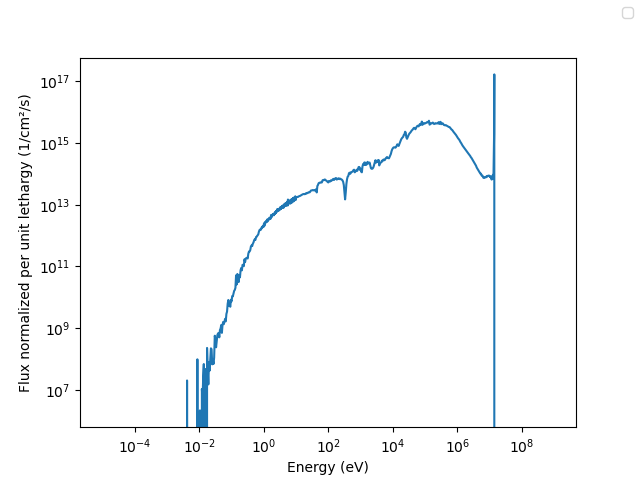
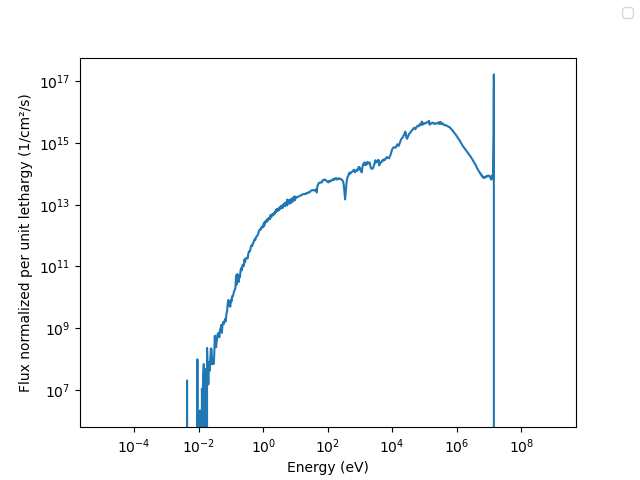
Added hw2 stuff, almost forgot

diff --git a/hw2.tex b/hw2.tex
@@ -16,8 +16,7 @@
 \usepackage{mhchem}
 \setcounter{tocdepth}{4}
 \setcounter{secnumdepth}{4}
-\usepackage{xcolor}
-\usepackage{amsmath,mathtools}
+\usepackage{xcolor,amsmath,mathtools}
 \usepackage{hyperref} % Link to desmos page
 
 \setacronymstyle{long-short}
@@ -29,21 +28,28 @@
 \newcommand{\eeq}{\end{aligned}\end{equation}}
 \newcommand{\beqs}{\begin{equation*}\begin{aligned}}
 \newcommand{\eeqs}{\end{aligned}\end{equation*}}
+\newcommand{\abrack}[1]{\langle#1\rangle}
 \usepackage{tcolorbox}
 \setlength{\parskip}{5pt}
 
 \begin{document}
-\noindent {\bf \Large NPRE 455: Homework 2}\\
+\noindent {\bf \Large NPRE 455: Homework 2} Owen Strong, ostrong2, 661893247\\
 
 \noindent 1. ({\bf factual concept recall}) Provide a {\it short} (1-2 sentences) answer to each of the following questions.
 
 \begin{enumerate}
 \item[(a)] ({\bf 1 point}) What is ``breeding?'' Give an example using \ce{^{232}Th}.
+\item[] Breeding is using excess neutrons to convert fertile nuclei to fissile nuclei. For example, in a thorium breeder reactor, \ce{^{232}Th} nuclei are struck by neutrons, and after absorbing a neutron \ce{^{233}Th} will decay to \ce{^{233}U}, which itself is fissile. 
 \item[(b)] ({\bf 2 points}) What is the difference between a ``multiplying'' system and a ``non-multiplying'' system? Give a real-life example of each.
+\item[] In a multiplying system, such as a fission reactor (Clinton Generating Station), neutrons produced by the nuclear reaction are also what trigger further reaction events, leading to a chain reaction. Conversely, in a non-multiplying system like a fusion reactor (JET), the product neutrons are not themselves one of the inputs to new reaction events, and these may often be treated as ``fixed-source'' neutronics problems.
 \item[(c)] ({\bf 1 point}) What is the name of the evaluated data library developed in the United States?
+\item[] The ENDF data library is maintained at Brookhaven National Laboratory.
 \item[(d)] ({\bf 4 points}) What do the four symbols in the four-factor formula represent? Define each one and give a short physical interpretation.
+\item[] In the four factor formula $k=\epsilon pf\eta$, the fast fission factor $\epsilon=\frac{\abrack{\nu\Sigma_f\phi}}{\abrack{\nu\Sigma_f\phi}^{th}}$ represents an added bonus for fast fission (the ratio of fast+thermal fission to just thermal fission), the resonance escape probability $p=frac{\abrack{\Sigma_a\phi}^{th}}{\abrack{\Sigma_a\phi}}$ represents the ratio of neutrons which are slowed down from fast to thermal energies without being absorbed to all neutrons produced, the thermal utilization factor $f=frac{\abrack{\Sigma_a\phi}^{th}_{fuel}}{\abrack{\Sigma_a\phi}^{th}}$ represents the fraction of thermal neutrons which are then absorbed by the fuel as opposed to other materials, and the production-absorption ratio $\nu=\frac{\abrack{\nu\Sigma_f\phi}^{th}_{fuel}}{\abrack{\Sigma_a\phi}^{th}_{fuel}}$ represents the average number of neutrons produced by fission reactions for every thermal neutron that is absorbed by the fuel.
 \item[(e)] ({\bf 2 points}) What is meant by ``spatial self-shielding?''
+\item[] Spatial self-shielding refers to the difference in behavior because neutrons may interact differently with spatially different components of the reactor. Neutrons might, in region A, undergo several different types of reactions and only \emph{then} enter region B, which would be different than if the components of A and B were homogenously mixed.
 \item[(f)] ({\bf 2 points}) Why can it be a poor design choice for a reactor to be over-moderated?
+\item[] If a reactor is overmoderated, then removing moderator increases the reaction rate of the reactor. For a water-moderated reactor, where increased reactor power might just boil away and remove even \emph{more} water in a positive feedback loop, this is what we in the business call, uh, \emph{suboptimal}.
 \end{enumerate}
 
 \clearpage
@@ -58,13 +64,123 @@ where $\phi_0=13.1\times10^{13}$ [1/cm$^2$/s], $R=50$ [cm], $\Sigma_a=0.108$ [1/
 
 \begin{enumerate}
 \item[(a)] ({\bf 3 points}) What is the maximum flux in the sphere?
+\begin{itemize}
+    \item To find the location with maximum flux, allow us to first find the spatial derivative of $\phi(r)$ using the quotient rule:
+    \begin{align*}
+        \phi(r)&=\frac{\phi_0R\sin{\left(\frac{\pi r}{R}\right)}}{r} \\
+        \phi'(r)&=\left[\frac{\phi_0R\sin{\left(\frac{\pi r}{R}\right)}}{r}\right]' \\
+        \color{gray}\left[\frac{f(x)}{g(x)}\right]'&\color{gray}=\frac{f'(x)g(x) - f(x)g'(x)}{(g(x))^2}\color{black} \\
+        \phi'(r)&=\phi_0R\left[\frac{\sin{\left(\frac{\pi r}{R}\right)}}{r}\right]' \\
+        &=\phi_0R\left[\frac{\frac{\pi}{R}\cos{\left(\frac{\pi r}{R}\right)r - \sin{\left(\frac{\pi r}{R}\right)}}}{r^2}\right] \\
+        &=\phi_0R\left[\frac{\pi\cos{\left(\frac{\pi r}{R}\right)}}{Rr} - \frac{\sin{\left(\frac{\pi r}{R}\right)}}{r^2}\right] \\
+        \phi'(r)&=\phi_0\frac{R}{r}\left[\frac{\pi\cos{\left(\frac{\pi r}{R}\right)}}{R} - \frac{\sin{\left(\frac{\pi r}{R}\right)}}{r}\right] \\
+    \end{align*}
+    then find where this derivative is equal to 0:
+    \begin{align*}
+        \phi'(r)=0&=\phi_0\frac{R}{r}\left[\frac{\pi\cos{\left(\frac{\pi r}{R}\right)}}{R} - \frac{\sin{\left(\frac{\pi r}{R}\right)}}{r}\right] \\
+        0 &= \frac{\pi\cos{\left(\frac{\pi r}{R}\right)}}{R} - \frac{\sin{\left(\frac{\pi r}{R}\right)}}{r}\color{gray}\ (\mathrm{finite\ }r) \\
+        \frac{\pi\cos{\left(\frac{\pi r}{R}\right)}}{R} &= \frac{\sin{\left(\frac{\pi r}{R}\right)}}{r} \\
+        \pi\cos{\left(\frac{\pi r}{R}\right)}r &= \sin{\left(\frac{\pi r}{R}\right)}R\\
+    \end{align*}
+    since $\sin(x)=0$ and $\cos(x)=0$ do not coincide,
+    \begin{align*}
+        \pi\cos{\left(\frac{\pi 0}{R}\right)}0 &= \sin{\left(\frac{\pi 0}{R}\right)}R\\
+        0&=0 \\
+        &\rightarrow r=0
+    \end{align*}
+    Then, by taking the limit as $\phi(r)$ approaches 0, we find the maximum flux:
+    \begin{align*}
+        \phi(0)&=\phi_0R\frac{\sin{\left(\frac{\pi r}{R}\right)}}{r} |_{r=0}\\
+        \lim_{r\rightarrow0}\phi(r)&=\phi_0R\frac{[\sin{\left(\frac{\pi r}{R}\right)}]'}{[r]'} |_{r=0}\\
+        &=\phi_0R\frac{\frac{\pi}{R}\cos{\left(\frac{\pi r}{R}\right)}}{1} |_{r=0}\\
+        &=\phi_0R\frac{\pi}{R}\\
+        &=\phi_0\pi\\
+        \color{gray}\phi_0&\color{gray}=13.1\times10^{13}\text{[1/cm$^2$/s]} \\
+        &=\pi\times13.1\times10^{13}\text{[1/cm$^2$/s]} \\
+        &=4.12\times10^{14}\text{[1/cm$^2$/s]} \\   
+    \end{align*}
+\end{itemize}
 \item[(b)] ({\bf 3 points}) Plot $\phi(r)$ as a function of $r$. This should be a computer-generated plot, not a hand sketch. Include labels for your axes with units.
+\begin{figure}[htb!]
+\centering
+\includegraphics[width=0.8\linewidth]{figures/hw2_p2flux.png}
+\caption{The flux spectrum $\phi(r)$.}
+\label{fig:p2flux}
+\end{figure}
+\begin{itemize}
+    \item Figure~\ref{fig:p2flux} shows $\phi(r)$ from $r=0$cm to $r=50$cm.
+\end{itemize}
 \item[(c)] ({\bf 4 points}) What is the total number of neutrons in the sphere at any given time? You may assume all neutrons are at an energy of 0.025 eV.
+\begin{itemize}
+    \item If we assume all neutrons have kinetic energy 0.025 eV:
+    \begin{align*}
+        E_k = 0.025\text{eV} &= 4.005441\cdot10^{-21}\text{J} = \frac{1}{2}mv^2\\
+        &\color{gray}m_n=1.675\cdot10^{-27}\text{kg }\\
+        v^2&=\frac{2\times 4.005441\cdot10^{-21}\text{J}}{1.675\cdot10^{-27}\text{kg}} \\
+        &\color{gray}\mathrm{J=kg\frac{m^2}{s^2}}\\
+        v^2&= 4.783\cdot10^{6}\mathrm{\frac{m^2}{s^2}} \\
+        v&=2187\mathrm{\frac{m}{s}}=2.187\cdot10^5 \mathrm{\frac{cm}{s}}\\
+    \end{align*}
+    and total flux $\phi$ is equivalent to neutron count times speed:
+    \begin{align*}
+        \int_V\phi&=\int_VNv \\
+        &=\int_{0}^{\pi}\int_{0}^{2\pi}\int_{0}^{R}\frac{\phi_0R\sin{\left(\frac{\pi r}{R}\right)}}{r}r^2sin(\theta)dr d\theta d\varphi\\
+        &=4\pi\phi_0R\int_{0}^{R}\sin{\left(\frac{\pi r}{R}\right)}rdr\\
+        &=4\pi\phi_0R\left.\left[\int\sin{\left(\frac{\pi r}{R}\right)}r\right]\right\vert_0^R\\
+        &=4\pi\phi_0R\left.\left[-\frac{R}{\pi}\cos{\left(\frac{\pi r}{R}\right)r}-\int-\frac{R}{\pi}\cos{\left(\frac{\pi r}{R}\right)}\right]\right\vert_0^R\\
+        &=4\pi\phi_0R\left.\left[\frac{R^2}{\pi^2}\sin{\left(\frac{\pi r}{R}\right)}-\frac{R}{\pi}\cos{\left(\frac{\pi r}{R}\right)r}\right]\right\vert_0^R\\
+        &=4\pi\phi_0R\left[\frac{R^2}{\pi^2}\sin{\left(\pi\right)}-\frac{R}{\pi}\cos{\left(\pi\right)}R - \frac{R^2}{\pi^2}\sin{\left(0\right)}+\frac{R}{\pi}\cos{\left(0\right)}0\right]\\
+        &=4\pi\phi_0R\left[\frac{R^2}{\pi}\right]\\
+        \int_V\phi&=4\phi_0R^3\\
+        &=4\times13.1\times10^{13}\mathrm{[/cm^2/s]}\times(50\mathrm{[cm]})^3\\
+        \int_V\phi&=6.55\cdot10^{19}\mathrm{[cm/s]}=\int_VNv \\
+        \int_VN&=\frac{1}{v}\int_V\phi \\
+        &=\frac{6.55\cdot10^{19}\mathrm{[cm/s]}}{2.187\cdot10^5 \mathrm{[cm/s]}} \\
+        &=2.995\cdot10^{14}
+        % &=\frac{1}{v} \int_{0}^{R}\frac{\phi_0R\sin{\left(\frac{\pi r}{R}\right)}}{r}rdr \\
+        % &=\frac{\phi_0R}{v} \int_{0}^{R}\sin{\left(\frac{\pi r}{R}\right)}dr \\
+        % &=\frac{\phi_0R}{v}\left[-\frac{R}{\pi}\cos{\left(\frac{\pi r}{R}\right)}\right]|_0^R \\
+        % &=\frac{\phi_0R}{v}\frac{R}{\pi}\left[\cos{\left(\frac{\pi R}{R}\right)}-\cos{\left(\frac{\pi 0}{R}\right)}\right] \\
+        % &=\frac{\phi_0R}{v}\frac{R}{\pi}\left[1-0\right] \\
+        % &=\frac{13.1\times10^{13}\text{[1/cm$^2$/s]} \times (50\mathrm{[cm]})^2}{\pi\times 2.187\cdot10^5 \mathrm{\frac{cm}{s}}} \\
+        % \phi&=
+    \end{align*}
+\end{itemize}
 %\item[(d)] ({\bf 4 points}) Estimate the number of neutrons at any given time in 1 cm$^3$ at the center of the sphere, and the number of fissions taking place in 1 second in that volume. ({\it Hint}: what is the radius of this 1 cm$^3$ sphere, and how much does flux from 1(b) vary over that region?)
 %\item[(e)] ({\bf 4 points}) Estimate the rate of energy (W) generated due to fission in a sphere of volume 1 cm$^3$ at the center of the sphere.
 \item[(d)] ({\bf 4 points}) How much power (W) is generated due to fission in the entire sphere?
+\begin{itemize}
+    \item Using the derivation from problem (c), $\int_V\phi=4\phi_0R^3=6.55\cdot10^{19}\mathrm{[cm/s]}$. Using the reaction rate of a phenomenon $i$ $R_i=\phi\Sigma_i$, and assuming a reaction energy $Q_f$ of 200MeV (or $3.20\cdot10^{-11}$J):
+    \begin{align*}
+        P&=\int_{V}Q_fR_f \\
+        &=\int_{V}Q_f\Sigma_f\phi \\
+        &=Q_f\Sigma_f\int_{V}\phi\\
+        &=3.20\cdot10^{-11}\mathrm{[J]}\times 0.0727\mathrm{[/cm]} \times6.55\cdot10^{19}\mathrm{[cm/s]} \\
+        &= 1.52\cdot10^8\mathrm{[W]} \\
+    \end{align*}
+\end{itemize}
 \item[(e)] ({\bf 5 points}) At some time later, the power level of the reactor changes. Assuming the flux profile is still governed by Eq. \eqref{eq:flux}, derive the relationship between $\phi_0$ and the power $P$. 
+\begin{itemize}
+    \item At any given point in time, $R_f=\phi\Sigma_f$ fission reactions take place per unit volume, each producing a certain energy $Q_f$. Generalizing this relationship:
+    \begin{align*}
+        P&=\int_{V}Q_fR_f \\
+        &=\int_{V}Q_f\Sigma_f\phi \\
+        &=Q_f\Sigma_f\int_{V}\phi\\
+        &=Q_f\Sigma_f\times4\phi_0R^3\\
+        P&=4Q_f\Sigma_fR^3\phi_0
+    \end{align*}
+\end{itemize}
 \item[(f)] ({\bf 2 points}) What is the average distance that a neutron travels between collisions? Find it numerically.
+\begin{itemize}
+    \item The \emph{mean free path} of a neutron is the inverse of the macrosocopic cross section $\Sigma_t$ for collisions of any type.
+    \begin{align*}
+        \Sigma_t&=\Sigma_a+\Sigma_s \\
+        &=0.108+0.21=0.318\mathrm{[1/cm]} \\
+        \mathrm{mfp}&=\frac{1}{\Sigma_t} \\
+        &= \frac{1}{0.318\mathrm{[1/cm]}} \\
+        &= 3.145\mathrm{[cm]} \\
+    \end{align*}
+\end{itemize}
 \end{enumerate}
 
 \clearpage
@@ -81,7 +197,7 @@ where $\phi_0=13.1\times10^{13}$ [1/cm$^2$/s], $R=50$ [cm], $\Sigma_a=0.108$ [1/
 \end{itemize}
 \item [(c)] ({\bf 5 points}) (True/False) The non-leakage probability, $P_{nl}$, is only a function of geometry.
 \begin{itemize}
-    \item \textbf{False.} The probability of leakage also depends on the energy distribution itself, and since the probability of what neutrons at what energies leak then goes back to affect multiplication, there's a cyclic dependency such that you can't \emph{practically} separate these factors, only conceptually. 
+    \item \textbf{False.} The probability of leakage also depends on material properties like cross sections and density. It also depends on the energy distribution itself, and since the probability of what neutrons at what energies leak then goes back to affect multiplication, there's a cyclic dependency such that you can't \emph{practically} separate these factors, only conceptually. 
 \end{itemize}
 \item [(d)] ({\bf 5 points}) (True/False) Consider a sphere of UO$_2$ initially surrounded by vacuum. You enclose the sphere in a layer of \ce{^{157}Gd}, a strong neutron absorber. $k$ should increase.
 \begin{itemize}
@@ -134,7 +250,7 @@ where $\phi_0=13.1\times10^{13}$ [1/cm$^2$/s], $R=50$ [cm], $\Sigma_a=0.108$ [1/
 \end{itemize}
 \item [(b)] ({\bf 5 points}) What kind of nuclear system do you think this spectrum corresponds to? Explain your answer.
 \begin{itemize}
-    \item I believe this spectrum corresponds to a fast spectrum reactor. There is only one mode centered at extremely high energy, around 100keV, and the flux at low energies is so low that it drops off and is unrecorded.
+    \item I believe this spectrum corresponds to a fusion reactor. There is only one mode centered at extremely high energy, ending at a super high peak that looks like 14MeV, the characteristic energy of neutrons from a certain fusion reaction.
 \end{itemize}
 \end{enumerate}
 
@@ -182,7 +298,7 @@ $\rightarrow3.425\% $
 >>> it.center_integral(it.watt, 0, 0.001, 1000)
 1.4498868445903682e-05
 \end{verbatim}
-$\rightarrow0.01450\% $
+$\rightarrow0.001450\% $
 \item[(c)] ({\bf 4 points}) Using numeric integration, find the probability that a prompt fission neutron is born with an energy higher than 3 MeV.
 \\Using the aforementioned upper bound of 18MeV:
 \begin{verbatim}

diff --git a/plot_spectra.py b/plot_spectra.py
@@ -2,21 +2,21 @@ import numpy as np
 import matplotlib.pyplot as plt
 import pandas as pd
 
-spec1 = pd.read_csv("hw2flux/flux_spectrum1.csv")
-print(spec1.columns)
-print(spec1['flux'])
-spec1["bw"] = spec1["Emax"]-spec1["Emin"]
-spec1["ul"] = np.log(spec1["Emax"]/spec1["Emin"])
-print(spec1)
+# spec1 = pd.read_csv("hw2flux/flux_spectrum1.csv")
+# print(spec1.columns)
+# print(spec1['flux'])
+# spec1["bw"] = spec1["Emax"]-spec1["Emin"]
+# spec1["ul"] = np.log(spec1["Emax"]/spec1["Emin"])
+# print(spec1)
 
 
 # fig, ax = plt.subplots()
 # ax.set_xlabel("Energy (eV)")
-# # ax.set_ylabel("Flux normalized by bin width (1/cm²/s)")
+# # ax.set_ylabel("Flux normalized by bin width (1/cm²/s/eV)")
 # ax.set_ylabel("Flux normalized per unit lethargy (1/cm²/s)")
 
-# # ax.plot(spec1["Emin"], spec1["flux"]/spec1["bw"])
-# ax.plot(spec1["Emin"], spec1["flux"]/spec1["ul"])
+# # ax.plot(spec1["Emax"], spec1["flux"]/spec1["bw"])
+# ax.plot(spec1["Emax"], spec1["flux"]/spec1["ul"])
 # ax.loglog()
 
 # fig.legend()
@@ -33,7 +33,7 @@ fig, ax = plt.subplots()
 ax.set_xlabel("Energy (eV)")
 ax.set_ylabel("Flux normalized per unit lethargy (1/cm²/s)")
 
-ax.plot(spec3["Emin"], spec3["flux"]/spec3["ul"])
+ax.plot(spec3["Emax"], spec3["flux"]/spec3["ul"])
 ax.loglog()
 
 fig.legend()
